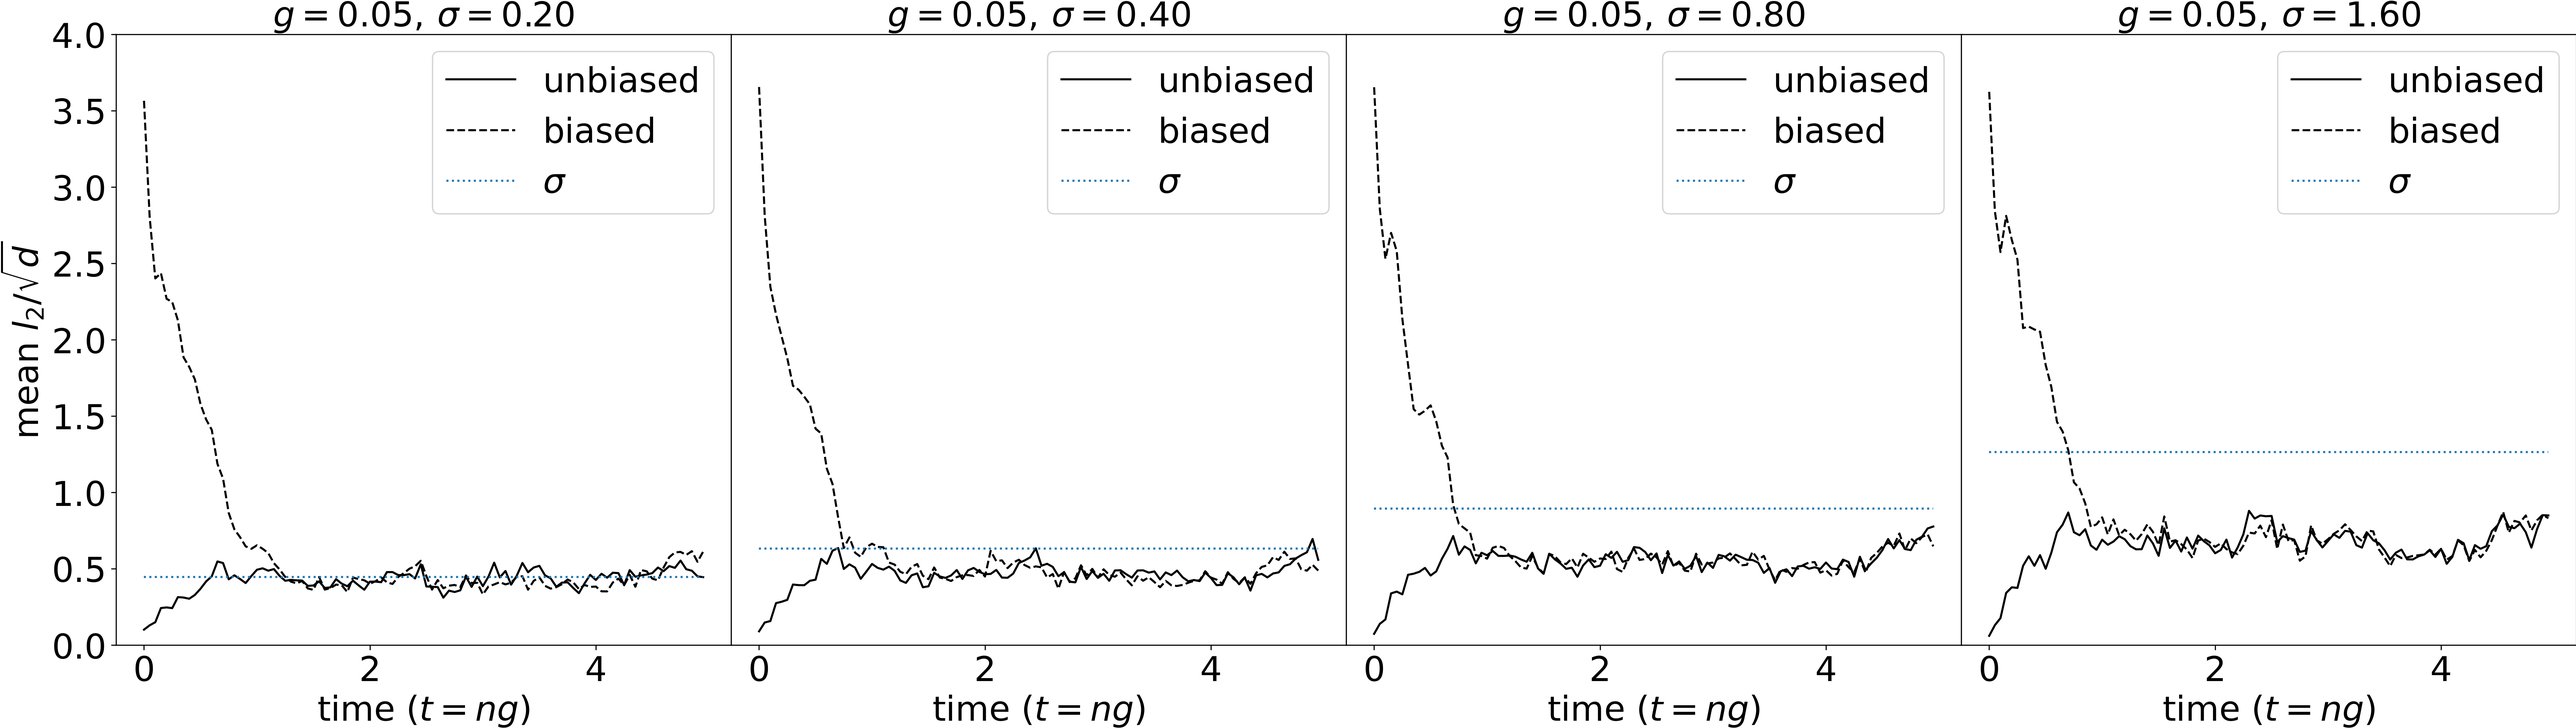
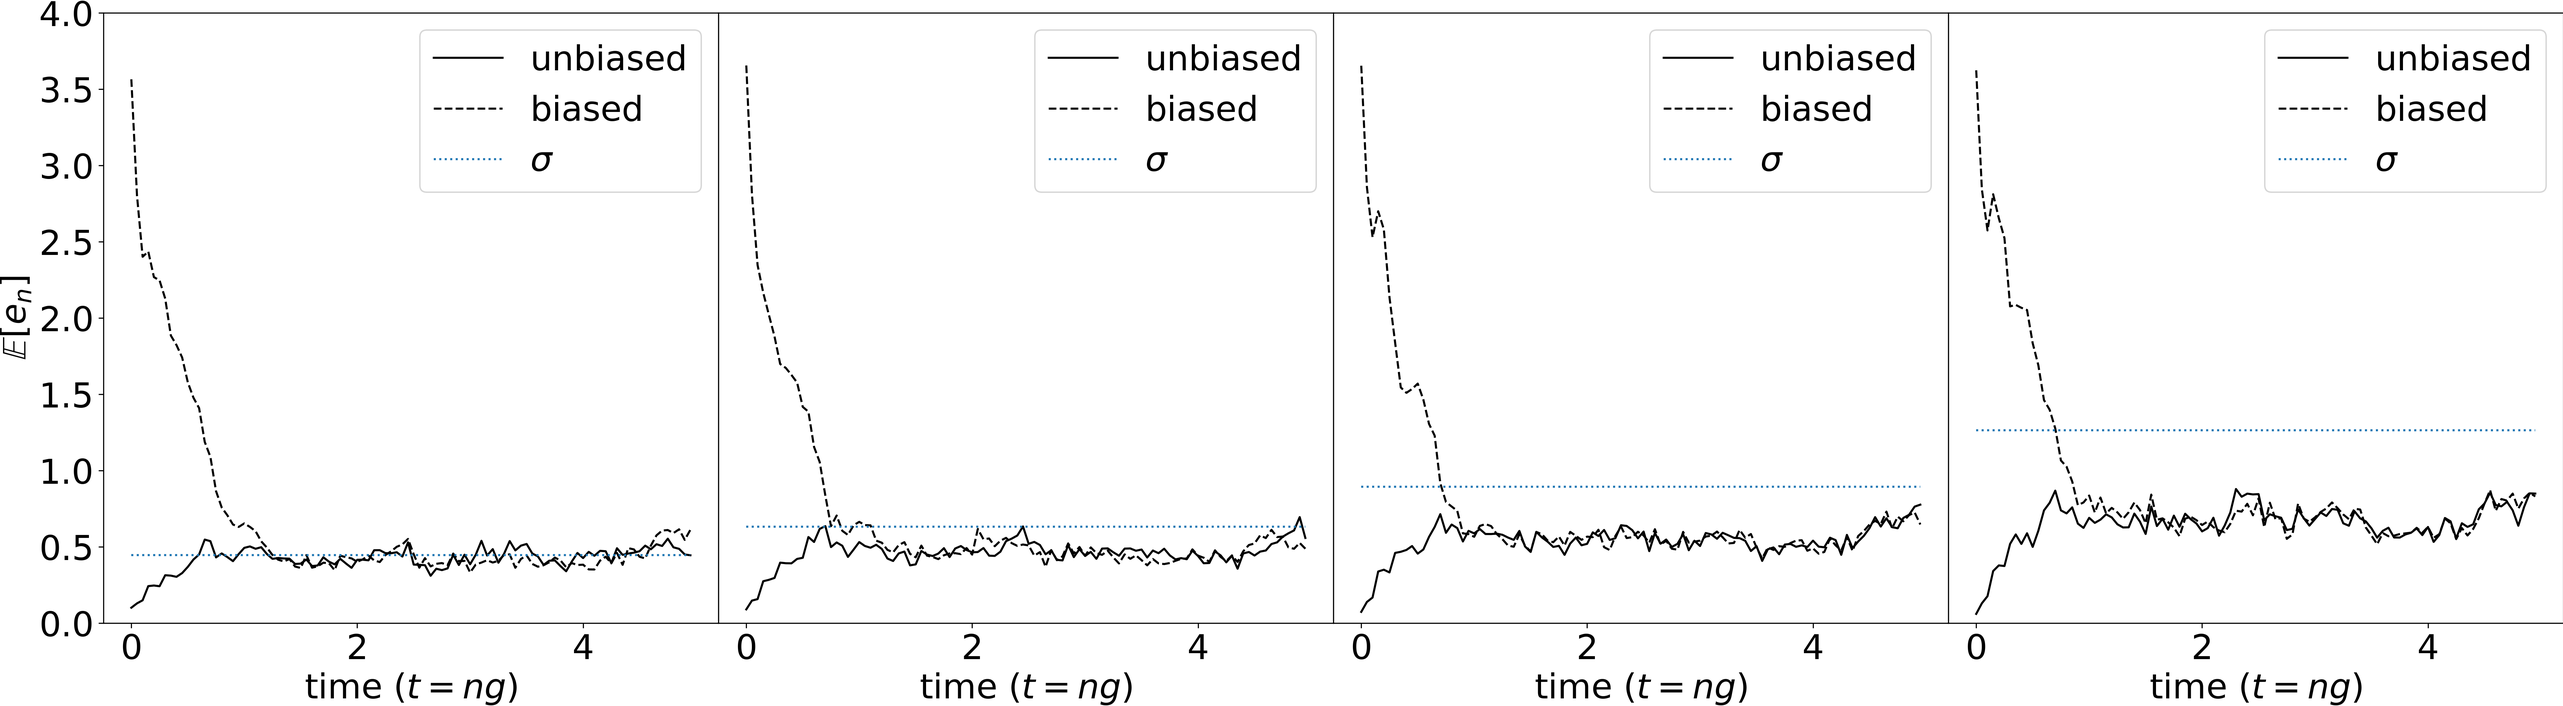
better plot latex

diff --git a/modules/dvl2.py b/modules/dvl2.py
@@ -137,7 +137,7 @@ class BatchDvL2:
                 file.write('{0:.2e} $\pm$ {2:.2e} & {1:.2e} $\pm$ {3:.2e}\\\\\n\\hline\n'.format(*self.dvl2s[i].popt, *(1.96 * np.diag(self.dvl2s[i].pcov))))
                 if i == 0:
                     axs.append(fig.add_subplot(1, len(self.dist_file_dict), i+1))
-                    axs[i].set_ylabel(r'mean $l_2/\sqrt{d}$', fontsize=fsize)
+                    axs[i].set_ylabel(r'$\mathbb{E}[e_n(\mu_b)]$', fontsize=fsize)
                 else:
                     axs.append(fig.add_subplot(1, len(self.dist_file_dict), i+1, sharey=axs[0], sharex=axs[0]))
                     axs[i].get_yaxis().set_visible(False)
@@ -148,8 +148,8 @@ class BatchDvL2:
                 label = r'${:.2f}D_\varepsilon {} {:.2f}$'.format(self.dvl2s[i].popt[0], '' if self.dvl2s[i].popt[1] < 0 else '+', self.dvl2s[i].popt[1])
                 axs[i].plot(self.dvl2s[i].dist, self.dvl2s[i].f(self.dvl2s[i].dist), c='black', label=label)
                 
-                axs[i].set_xlabel(r'mean $D_\varepsilon$', fontsize=fsize)
-                axs[i].set_title(r'$g = {:.2f},\,\sigma= {:.2f}$'.format(obs_gap, obs_cov), fontsize=fsize)
+                axs[i].set_xlabel(r'$\mathbb{E}[D_\varepsilon\left(\pi_n(\mu_0), \pi_n(\mu_b)\right)]$', fontsize=fsize)
+                #axs[i].set_title(r'$g = {:.2f},\,\sigma= {:.2f}$'.format(obs_gap, obs_cov), fontsize=fsize)
                 axs[i].text(6.0, 1.0, r'Correlation = {:.2f}'.format(pearsonr(self.dvl2s[i].dist, self.dvl2s[i].l2_error)[0]), fontsize=fsize)
                 axs[i].text(6.0, 1.2, r'$R^2$ for fit = {:.2f}'.format(self.dvl2s[i].r_squared), fontsize=fsize)
                 axs[i].legend(fontsize=fsize-0, loc='upper left')
@@ -180,7 +180,7 @@ class BatchDvL22:
                 file.write('{0:.2e} $\pm$ {2:.2e} & {1:.2e} $\pm$ {3:.2e}\\\\\n\\hline\n'.format(*self.dvl2s[i].popt, *(1.96 * np.diag(self.dvl2s[i].pcov))))
                 if i == 0:
                     axs.append(fig.add_subplot(1, len(self.dist_file_dict), i+1))
-                    axs[i].set_ylabel(r'mean $l_2/\sqrt{d}$', fontsize=fsize)
+                    axs[i].set_ylabel(r'$\mathbb{E}[e_n(\mu_b)]$', fontsize=fsize)
                 else:
                     axs.append(fig.add_subplot(1, len(self.dist_file_dict), i+1, sharey=axs[0], sharex=axs[0]))
                     axs[i].get_yaxis().set_visible(False)
@@ -191,8 +191,8 @@ class BatchDvL22:
                 label = r'${:.2f}D_\varepsilon {} {:.2f}$'.format(self.dvl2s[i].popt[0], '' if self.dvl2s[i].popt[1] < 0 else '+', self.dvl2s[i].popt[1])
                 axs[i].plot(self.dvl2s[i].dist, self.dvl2s[i].f(self.dvl2s[i].dist), c='black', label=label)
                 
-                axs[i].set_xlabel(r'mean $D_\varepsilon$', fontsize=fsize)
-                axs[i].set_title(r'$g = {:.2f},\,\sigma= {:.2f}$'.format(self.obs_gap, obs_cov), fontsize=fsize)
+                axs[i].set_xlabel(r'$\mathbb{E}[D_\varepsilon\left(\pi_n(\mu_0), \pi_n(\mu_b)\right)]$', fontsize=fsize)
+               #axs[i].set_title(r'$g = {:.2f},\,\sigma= {:.2f}$'.format(self.obs_gap, obs_cov), fontsize=fsize)
                 axs[i].text(6.0, 1.0, r'Correlation = {:.2f}'.format(pearsonr(self.dvl2s[i].dist, self.dvl2s[i].l2_error)[0]), fontsize=fsize)
                 axs[i].text(6.0, 1.2, r'$R^2$ for fit = {:.2f}'.format(self.dvl2s[i].r_squared), fontsize=fsize)
                 axs[i].legend(fontsize=fsize-0, loc='upper left')

diff --git a/modules/rate.py b/modules/rate.py
@@ -3,6 +3,13 @@ import scipy
 import pandas as pd 
 import matplotlib.pyplot as plt
 
+
+# plt.rcParams.update({
+#     'text.usetex': True,
+#     'text.latex.preamble': r'\usepackage{amsfonts}'
+# })
+
+
 class RateCalc:
     
     def __init__(self, files, obs_gap) -> None:
@@ -76,7 +83,7 @@ class RateCalc:
         label = r'${:.2f}\,\exp({:.2f}t) + {:.2f}, R^2 = {:.2f}$'.format(*self.popt, self.r_squared)
         ax.plot(self.phy_time, self.f(self.phy_time), c='deeppink', label=label)
         ax.plot(self.phy_time, self.dist, c='black', label=r'mean $D_\varepsilon$', linestyle='dashed')
-        ax.set_ylabel(r'$D_\varepsilon\left(\pi_n(\mu_1), \pi_n(\mu_2)\right)$', fontsize=20)
+        ax.set_ylabel(r'$\mathbb{E}[D_\varepsilon\left(\pi_n(\mu_0), \pi_n(\mu_b)\right)]$', fontsize=20)
         ax.set_xlabel(r'time ($t=ng$)', fontsize=20)
         ax.set_title(r'g = {:.2f}, $\sigma$ = {:.2f}'.format(self.obs_gap, obs_cov), fontsize=20)
         if ylim is not None:
@@ -103,7 +110,7 @@ class BatchRate:
                 file.write('{0:.2e} $\pm$ {3:.2e} & {1:.2e} $\pm$ {4:.2e} & {2:.2e} $\pm$ {5:.2e}\\\\\n\\hline\n'.format(*self.rcs[i].popt, *(1.96 * np.diag(self.rcs[i].pcov))))
                 if i == 0:
                     axs.append(fig.add_subplot(1, len(self.file_dict), i+1))
-                    axs[i].set_ylabel(r'$D_\varepsilon\left(\pi_n(\mu_1), \pi_n(\mu_2)\right)$', fontsize=fsize)
+                    axs[i].set_ylabel(r'$\mathbb{E}[D_\varepsilon\left(\pi_n(\mu_0), \pi_n(\mu_b)\right)]$', fontsize=fsize)
                 else:
                     axs.append(fig.add_subplot(1, len(self.file_dict), i+1, sharey=axs[0], sharex=axs[0]))
                     axs[i].get_yaxis().set_visible(False)
@@ -141,7 +148,7 @@ class BatchRate2:
                 file.write('{0:.2e} $\pm$ {3:.2e} & {1:.2e} $\pm$ {4:.2e} & {2:.2e} $\pm$ {5:.2e}\\\\\n\\hline\n'.format(*self.rcs[i].popt, *(1.96 * np.diag(self.rcs[i].pcov))))
                 if i == 0:
                     axs.append(fig.add_subplot(1, len(self.file_dict), i+1))
-                    axs[i].set_ylabel(r'$D_\varepsilon\left(\pi_n(\mu_1), \pi_n(\mu_2)\right)$', fontsize=fsize)
+                    axs[i].set_ylabel(r'$\mathbb{E}[D_\varepsilon\left(\pi_n(\mu_0), \pi_n(\mu_b)\right)]$', fontsize=fsize)
                 else:
                     axs.append(fig.add_subplot(1, len(self.file_dict), i+1, sharey=axs[0], sharex=axs[0]))
                     axs[i].get_yaxis().set_visible(False)

diff --git a/modules/l2.py b/modules/l2.py
@@ -4,6 +4,14 @@ import pandas as pd
 import matplotlib.pyplot as plt
 import tables
 
+
+# plt.rcParams.update({
+#     'text.usetex': True,
+#     'text.latex.preamble': r'\usepackage{amsfonts}'
+# })
+
+
+
 class L2Error:
     
     def __init__(self, files, obs_gap) -> None:
@@ -106,14 +114,14 @@ class BatchL2:
         for i, obs_gap in enumerate(self.file_dicts[0]):
             if i == 0:
                 axs.append(fig.add_subplot(1, len(self.file_dicts[0]), i+1))
-                axs[i].set_ylabel(r'mean ${l_2}/{\sqrt{d}}$', fontsize=fsize)
+                axs[i].set_ylabel(r'$\mathbb{E}[e_n]$', fontsize=fsize)
             else:
                 axs.append(fig.add_subplot(1, len(self.file_dicts[0]), i+1, sharey=axs[0], sharex=axs[0]))
                 axs[i].get_yaxis().set_visible(False)
 
             axs[i].tick_params(axis='both', which='major', labelsize=fsize)
             axs[i].tick_params(axis='both', which='minor', labelsize=fsize)
-            axs[i].set_title(r'$g = {:.2f},\,\sigma= {:.2f}$'.format(obs_gap, obs_cov), fontsize=fsize)
+            #axs[i].set_title(r'$g = {:.2f},\,\sigma= {:.2f}$'.format(obs_gap, obs_cov), fontsize=fsize)
             axs[i].set_xlabel(r'time ($t=ng$)', fontsize=fsize)
             if ylim is not None:
                 axs[i].set_ylim(*ylim)
@@ -143,14 +151,14 @@ class BatchL22:
         for i, obs_cov in enumerate(self.file_dicts[0]):
             if i == 0:
                 axs.append(fig.add_subplot(1, len(self.file_dicts[0]), i+1))
-                axs[i].set_ylabel(r'mean ${l_2}/{\sqrt{d}}$', fontsize=fsize)
+                axs[i].set_ylabel(r'$\mathbb{E}[e_n]$', fontsize=fsize)
             else:
                 axs.append(fig.add_subplot(1, len(self.file_dicts[0]), i+1, sharey=axs[0], sharex=axs[0]))
                 axs[i].get_yaxis().set_visible(False)
 
             axs[i].tick_params(axis='both', which='major', labelsize=fsize)
             axs[i].tick_params(axis='both', which='minor', labelsize=fsize)
-            axs[i].set_title(r'$g = {:.2f},\,\sigma= {:.2f}$'.format(self.obs_gap, obs_cov), fontsize=fsize)
+            #axs[i].set_title(r'$g = {:.2f},\,\sigma= {:.2f}$'.format(self.obs_gap, obs_cov), fontsize=fsize)
             axs[i].set_xlabel(r'time ($t=ng$)', fontsize=fsize)
             if ylim is not None:
                 axs[i].set_ylim(*ylim)

diff --git a/modules/trace.py b/modules/trace.py
@@ -103,14 +103,14 @@ class BatchTr:
         for i, obs_gap in enumerate(self.file_dicts[0]):
             if i == 0:
                 axs.append(fig.add_subplot(1, len(self.file_dicts[0]), i+1))
-                axs[i].set_ylabel(r'mean posterior trace', fontsize=fsize)
+                axs[i].set_ylabel(r'$\mathbb{E}[\tau_n]$', fontsize=fsize)
             else:
                 axs.append(fig.add_subplot(1, len(self.file_dicts[0]), i+1, sharey=axs[0], sharex=axs[0]))
                 axs[i].get_yaxis().set_visible(False)
 
             axs[i].tick_params(axis='both', which='major', labelsize=fsize)
             axs[i].tick_params(axis='both', which='minor', labelsize=fsize)
-            axs[i].set_title(r'$g = {:.2f},\,\sigma= {:.2f}$'.format(obs_gap, obs_cov), fontsize=fsize)
+            #axs[i].set_title(r'$g = {:.2f},\,\sigma= {:.2f}$'.format(obs_gap, obs_cov), fontsize=fsize)
             axs[i].set_xlabel(r'time ($t=ng$)', fontsize=fsize)
             if ylim is not None:
                 axs[i].set_ylim(*ylim)
@@ -139,14 +139,14 @@ class BatchTr2:
         for i, obs_cov in enumerate(self.file_dicts[0]):
             if i == 0:
                 axs.append(fig.add_subplot(1, len(self.file_dicts[0]), i+1))
-                axs[i].set_ylabel(r'mean posterior trace', fontsize=fsize)
+                axs[i].set_ylabel(r'$\mathbb{E}[\tau_n]$', fontsize=fsize)
             else:
                 axs.append(fig.add_subplot(1, len(self.file_dicts[0]), i+1, sharey=axs[0], sharex=axs[0]))
                 axs[i].get_yaxis().set_visible(False)
 
             axs[i].tick_params(axis='both', which='major', labelsize=fsize)
             axs[i].tick_params(axis='both', which='minor', labelsize=fsize)
-            axs[i].set_title(r'$g = {:.2f},\,\sigma= {:.2f}$'.format(self.obs_gap, obs_cov), fontsize=fsize)
+            #axs[i].set_title(r'$g = {:.2f},\,\sigma= {:.2f}$'.format(self.obs_gap, obs_cov), fontsize=fsize)
             axs[i].set_xlabel(r'time ($t=ng$)', fontsize=fsize)
             if ylim is not None:
                 axs[i].set_ylim(*ylim)

diff --git a/effect of obs cov/plot.py b/effect of obs cov/plot.py
@@ -48,9 +48,9 @@ for folder in glob.glob('{}/*'.format(error_folder)):
     else:
         error_dict_all_2[obs_cov].append(file)
 
-rate.BatchRate2(dist_dict_all, obs_gap).plot(plot_folder, tag='obs_cov_all', ylim=(0.5, 12.0), fsize=25)
-#l2.BatchL22([error_dict_all_1, error_dict_all_2], obs_gap)\
-#    .plot(plot_folder, tag='obs_cov_all', ylim=(0.0, 4.0), fsize=25, labels=['unbiased', 'biased'], linestyles=['solid', 'dashed'])
-#trace.BatchTr2([error_dict_all_1, error_dict_all_2], obs_gap)\
+# rate.BatchRate2(dist_dict_all, obs_gap).plot(plot_folder, tag='obs_cov_all', ylim=(0.5, 12.0), fsize=25)
+l2.BatchL22([error_dict_all_1, error_dict_all_2], obs_gap)\
+   .plot(plot_folder, tag='obs_cov_all', ylim=(0.0, 4.0), fsize=25, labels=['unbiased', 'biased'], linestyles=['solid', 'dashed'])
+# trace.BatchTr2([error_dict_all_1, error_dict_all_2], obs_gap)\
 #    .plot(plot_folder, tag='obs_cov_all', ylim=(0.0, 20.0), fsize=25, labels=['unbiased', 'biased'], linestyles=['solid', 'dashed'])
-dvl2.BatchDvL22(dist_dict_all, error_dict_all_2, obs_gap).plot(plot_folder, tag='obs_cov_all', ylim=(0.2, 4.0), xlim=(1.5, 11.5), fsize=25)
+# dvl2.BatchDvL22(dist_dict_all, error_dict_all_2, obs_gap).plot(plot_folder, tag='obs_cov_all', ylim=(0.2, 4.0), xlim=(1.5, 11.5), fsize=25)

diff --git a/effect of obs gap/plot.py b/effect of obs gap/plot.py
@@ -53,9 +53,9 @@ del dist_dict_all[0.05]
 del error_dict_all_1[0.05]
 del error_dict_all_2[0.05]
 
-rate.BatchRate(dist_dict_all).plot(plot_folder, tag='obs_gap_all', obs_cov=obs_cov, ylim=(0.5, 12.0), fsize=25)
+# rate.BatchRate(dist_dict_all).plot(plot_folder, tag='obs_gap_all', obs_cov=obs_cov, ylim=(0.5, 12.0), fsize=25)
 l2.BatchL2([error_dict_all_1, error_dict_all_2])\
     .plot(plot_folder, tag='obs_gap_all', obs_cov=obs_cov, ylim=(0.0, 4.0), fsize=25, labels=['unbiased', 'biased'], linestyles=['solid', 'dashed'])
-trace.BatchTr([error_dict_all_1, error_dict_all_2])\
-    .plot(plot_folder, tag='obs_gap_all', obs_cov=obs_cov, ylim=(0.0, 40.0), fsize=25, labels=['unbiased', 'biased'], linestyles=['solid', 'dashed'])
-dvl2.BatchDvL2(dist_dict_all, error_dict_all_2).plot(plot_folder, tag='obs_gap_all', obs_cov=obs_cov, ylim=(0.2, 4.0), xlim=(1.5, 11.5), fsize=25)
+# trace.BatchTr([error_dict_all_1, error_dict_all_2])\
+#     .plot(plot_folder, tag='obs_gap_all', obs_cov=obs_cov, ylim=(0.0, 40.0), fsize=25, labels=['unbiased', 'biased'], linestyles=['solid', 'dashed'])
+# dvl2.BatchDvL2(dist_dict_all, error_dict_all_2).plot(plot_folder, tag='obs_gap_all', obs_cov=obs_cov, ylim=(0.2, 4.0), xlim=(1.5, 11.5), fsize=25)
